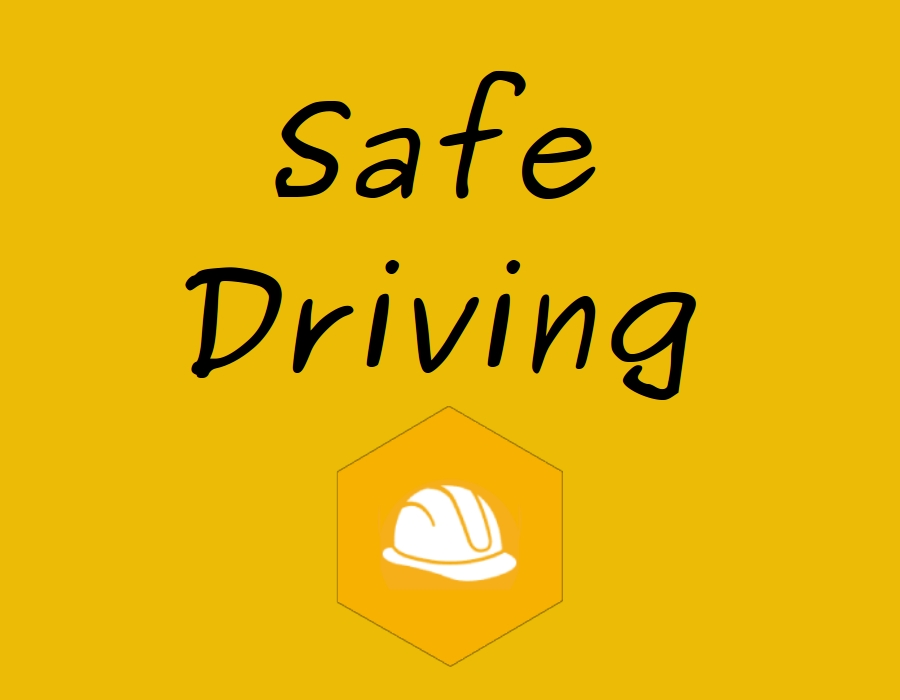
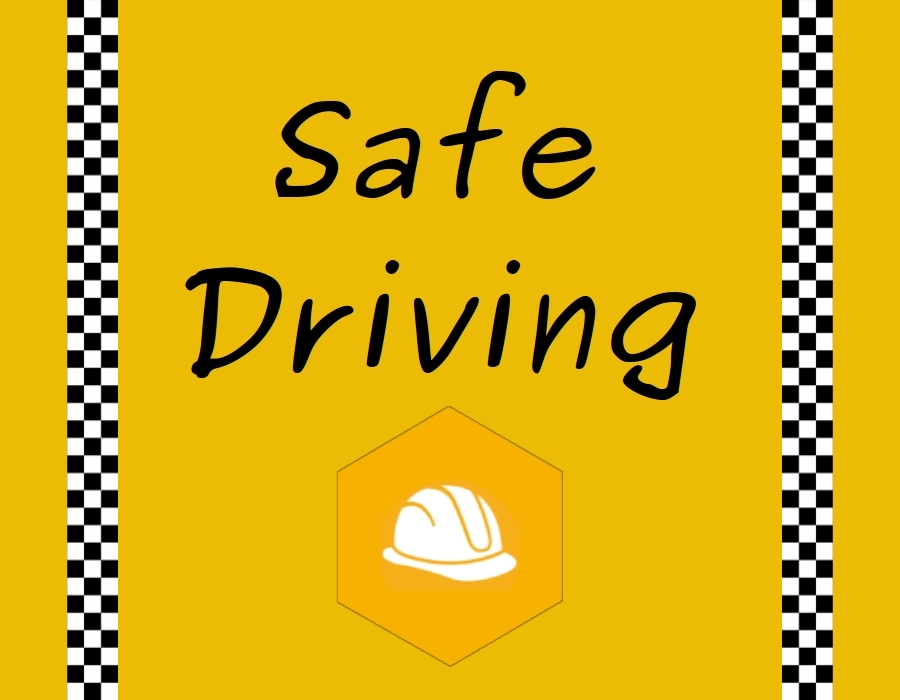
Improved taxi texture group

Changed region(s): [[0.84, 0.0, 0.9333, 1.0], [0.0622, 0.0, 0.1556, 1.0]]

diff --git a/tp6/MyVehicle.js b/tp6/MyVehicle.js
@@ -9,12 +9,12 @@ class MyVehicle extends CGFobject
 		super(scene);
 		
 		// Vehicle Materials
-		this.texGroup = new StylishTextureGroup(scene);
+		this.texGroup = new TaxiTextureGroup(scene);
 
 		// Vehicle Dimensions
 		this.wheelRadius = 0.35;
 		this.wheelBreadth = 0.3;
-		this.vehicleBreath = 2.3;
+		this.vehicleBreadth = 2.3;
 		this.vehicleLength = 5;
 		this.vehicleHeight = 2;
 		this.vehicleDistanceToGround = 1/3;
@@ -29,8 +29,8 @@ class MyVehicle extends CGFobject
 		this.rightSide = new MyVehicleRightSide(scene, this, this.vehicleDistanceToGround);
 		this.leftSide = new MyVehicleLeftSide(scene, this, this.vehicleDistanceToGround);
 		this.exhaustPipe = new MyExhaustPipe(scene);
-		this.top = new MyVehicleTop(scene, this, this.vehicleBreath, this.vehicleHeight);
-		this.bottom = new MyVehicleBottom(scene, this.vehicleBreath, this.vehicleDistanceToGround);
+		this.top = new MyVehicleTop(scene, this, this.vehicleBreadth, this.vehicleHeight);
+		this.bottom = new MyVehicleBottom(scene, this.vehicleBreadth, this.vehicleDistanceToGround);
 		this.glass = new Plane(scene, 20);
 		this.trapezoidGlass1 = new MyTrapezoid(scene, 0.5);
 		this.trapezoidGlass2 = new MyTrapezoid(scene, 0.5, true);
@@ -45,8 +45,8 @@ class MyVehicle extends CGFobject
 		this.vehicleSpeed = 0;
 		this.vehicleMaxSpeed = 0.2;
 		this.vehicleMinSpeed = -this.vehicleMaxSpeed;
-		this.vehicleAcceleration = 0.004;
-		this.ground_friction = 0.0016;
+		this.vehicleAcceleration = 4E-3;
+		this.ground_friction = 16E-4;
     };
 
 	update(dir) {
@@ -99,9 +99,9 @@ class MyVehicle extends CGFobject
 		this.scene.translate(this.x, 0, this.z);
 
 		// The vehicle has frontal traction, make rotation around back wheels and replace vehicle's position
-		this.scene.translate(this.vehicleBreath/2, 0, this.vehicleLength/3);
+		this.scene.translate(this.vehicleBreadth/2, 0, this.vehicleLength/3);
 		this.scene.rotate(this.direction_angle, 0, 1, 0);
-		this.scene.translate(-this.vehicleBreath/2, 0, -this.vehicleLength/3);
+		this.scene.translate(-this.vehicleBreadth/2, 0, -this.vehicleLength/3);
 	}
 
     display() {
@@ -117,7 +117,7 @@ class MyVehicle extends CGFobject
 
         // Tire #2
         this.scene.pushMatrix();
-            this.scene.translate(this.vehicleBreath - this.wheelBreadth/2, this.wheelRadius, 1);
+            this.scene.translate(this.vehicleBreadth - this.wheelBreadth/2, this.wheelRadius, 1);
             this.scene.rotate(Math.PI/2, 0, 1, 0);
 			this.scene.scale(this.wheelRadius, this.wheelRadius, this.wheelBreadth);
 			this.wheel.display();
@@ -133,7 +133,7 @@ class MyVehicle extends CGFobject
 
         // Tire #4
         this.scene.pushMatrix();
-            this.scene.translate(this.vehicleBreath - this.wheelBreadth/2, this.wheelRadius, 3.5);
+            this.scene.translate(this.vehicleBreadth - this.wheelBreadth/2, this.wheelRadius, 3.5);
             this.scene.rotate(Math.PI/2, 0, 1, 0);
 			this.scene.scale(this.wheelRadius, this.wheelRadius, this.wheelBreadth);
 			this.turningWheel.display();
@@ -143,8 +143,8 @@ class MyVehicle extends CGFobject
 
 		// Front
         this.scene.pushMatrix();
-            this.scene.translate(this.vehicleBreath/2, 2/3, 4.45);
-			this.scene.scale(this.vehicleBreath, 2/3, 0.9);
+            this.scene.translate(this.vehicleBreadth/2, 2/3, 4.45);
+			this.scene.scale(this.vehicleBreadth, 2/3, 0.9);
 			this.cube.display();
         this.scene.popMatrix();
 
@@ -155,15 +155,15 @@ class MyVehicle extends CGFobject
 
 		// Back
         this.scene.pushMatrix();
-            this.scene.translate(this.vehicleBreath/2, 1, 0.125);
+            this.scene.translate(this.vehicleBreadth/2, 1, 0.125);
 			this.scene.rotate(-Math.PI/2, 1, 0, 0);
-			this.scene.scale(this.vehicleBreath, 0.25, 1);
+			this.scene.scale(this.vehicleBreadth, 0.25, 1);
 			this.quad.display();
         this.scene.popMatrix();
         this.scene.pushMatrix();
-            this.scene.translate(this.vehicleBreath/2, 1/3 + this.vehicleDistanceToGround, 0);
+            this.scene.translate(this.vehicleBreadth/2, 1/3 + this.vehicleDistanceToGround, 0);
 			this.scene.rotate(Math.PI, 1, 0, 0);
-			this.scene.scale(this.vehicleBreath, 2/3, 1);
+			this.scene.scale(this.vehicleBreadth, 2/3, 1);
 			this.quad.display();
         this.scene.popMatrix();
 
@@ -174,7 +174,7 @@ class MyVehicle extends CGFobject
 
 		// Vehicle Right Side
         this.scene.pushMatrix();
-			this.scene.translate(this.vehicleBreath, 0, 0);
+			this.scene.translate(this.vehicleBreadth, 0, 0);
 			this.rightSide.display();
         this.scene.popMatrix();
 
@@ -186,40 +186,40 @@ class MyVehicle extends CGFobject
 		// Vehicle Exhaust Pipes
 		this.texGroup.exhaustPipeMaterial.apply();
         this.scene.pushMatrix();
-			this.scene.translate(this.vehicleBreath-0.10, 0.4, -0.15);
+			this.scene.translate(this.vehicleBreadth-0.10, 0.4, -0.15);
 			this.exhaustPipe.display();
         this.scene.popMatrix();
         this.scene.pushMatrix();
-			this.scene.translate(this.vehicleBreath-0.25, 0.4, -0.15);
+			this.scene.translate(this.vehicleBreadth-0.25, 0.4, -0.15);
 			this.exhaustPipe.display();
         this.scene.popMatrix();
 
 		// Front Glass
 		this.texGroup.glassMaterial.apply();
         this.scene.pushMatrix();
-            this.scene.translate(this.vehicleBreath/2, 1.5 + 0.01, 3.5 + 0.01);
+            this.scene.translate(this.vehicleBreadth/2, 1.5 + 0.01, 3.5 + 0.01);
 			this.scene.rotate(-Math.PI/4, 1, 0, 0);
-			this.scene.scale(this.vehicleBreath-0.2, Math.sqrt(2)-0.2, 1);
+			this.scene.scale(this.vehicleBreadth-0.2, Math.sqrt(2)-0.2, 1);
 			this.glass.display();
         this.scene.popMatrix();
 
 		// Back Glass
         this.scene.pushMatrix();
-            this.scene.translate(this.vehicleBreath/2, this.vehicleHeight-0.5 + 0.01, 0.625 - 0.01);
+            this.scene.translate(this.vehicleBreadth/2, this.vehicleHeight-0.5 + 0.01, 0.625 - 0.01);
 			this.scene.rotate(-Math.PI/2-0.927295, 1, 0, 0);
-			this.scene.scale(this.vehicleBreath-0.2, Math.sqrt(1 + 0.75*0.75)-0.2, 1);
+			this.scene.scale(this.vehicleBreadth-0.2, Math.sqrt(1 + 0.75*0.75)-0.2, 1);
 			this.glass.display();
         this.scene.popMatrix();
 
 		// Right Side glasses
         this.scene.pushMatrix();
-			this.scene.translate(this.vehicleBreath + 0.01, 1.5, 1.225);
+			this.scene.translate(this.vehicleBreadth + 0.01, 1.5, 1.225);
 			this.scene.rotate(Math.PI/2, 0, 1, 0);
 			this.scene.scale(1.25, 0.75, 1);
 			this.trapezoidGlass1.display();
         this.scene.popMatrix();
         this.scene.pushMatrix();
-			this.scene.translate(this.vehicleBreath + 0.01, 1.5, 2.85);
+			this.scene.translate(this.vehicleBreadth + 0.01, 1.5, 2.85);
 			this.scene.rotate(-Math.PI/2, 0, 1, 0);
 			this.scene.scale(1.5, 0.75, 1);
 			this.trapezoidGlass2.display();
@@ -241,7 +241,7 @@ class MyVehicle extends CGFobject
 
 		// License Plate
 		this.scene.pushMatrix();
-			this.scene.translate(this.vehicleBreath/2, 0.53, this.vehicleLength-0.09);
+			this.scene.translate(this.vehicleBreadth/2, 0.53, this.vehicleLength-0.09);
 			this.scene.scale(1, 0.214, 1);
 
 			this.texGroup.licensePlateMaterial.apply();
@@ -254,14 +254,14 @@ class MyVehicle extends CGFobject
 			this.headLight.display();
         this.scene.popMatrix();
 		this.scene.pushMatrix();
-			this.scene.translate(this.vehicleBreath-0.25, 0.53, this.vehicleLength-0.09);
+			this.scene.translate(this.vehicleBreadth-0.25, 0.53, this.vehicleLength-0.09);
 			this.headLight.display();
         this.scene.popMatrix();
 
 		// Vehicle Right Side Mirror
 		this.texGroup.paintMaterial.apply();
 		this.scene.pushMatrix();
-			this.scene.translate(this.vehicleBreath, 1.12, 3.72);
+			this.scene.translate(this.vehicleBreadth, 1.12, 3.72);
 			this.mirror.display();
         this.scene.popMatrix();
 

diff --git a/tp6/TaxiTextureGroup.js b/tp6/TaxiTextureGroup.js
@@ -41,7 +41,7 @@ class TaxiTextureGroup extends CGFobject
         this.wheelTireMaterial.loadTexture("./resources/images/tire.jpg");
 
         this.wheelRimMaterial = new CGFappearance(this.scene);
-        this.wheelRimMaterial.loadTexture("./resources/images/metal.jpg");
+        this.wheelRimMaterial.loadTexture("./resources/images/taxiMetal.jpg");
 
         this.wheelTireSideMaterial = new CGFappearance(this.scene);
 		this.wheelTireSideMaterial.loadTexture("./resources/images/tireSide.jpg");

diff --git a/tp6/MySemiSphere.js b/tp6/MySemiSphere.js
@@ -38,7 +38,7 @@ class MySemiSphere extends CGFobject
 				);
 
 				this.texCoords.push(
-					((Math.cos(alpha_angle*j)*Math.cos(omega_angle*i))+1)/2, ((Math.cos(alpha_angle*j)*Math.sin(omega_angle*i))+1)/2
+					((Math.cos(alpha_angle*j)*Math.cos(omega_angle*i))+1)/2, 1 - ((Math.cos(alpha_angle*j)*Math.sin(omega_angle*i))+1)/2
 				);
 
 			}
